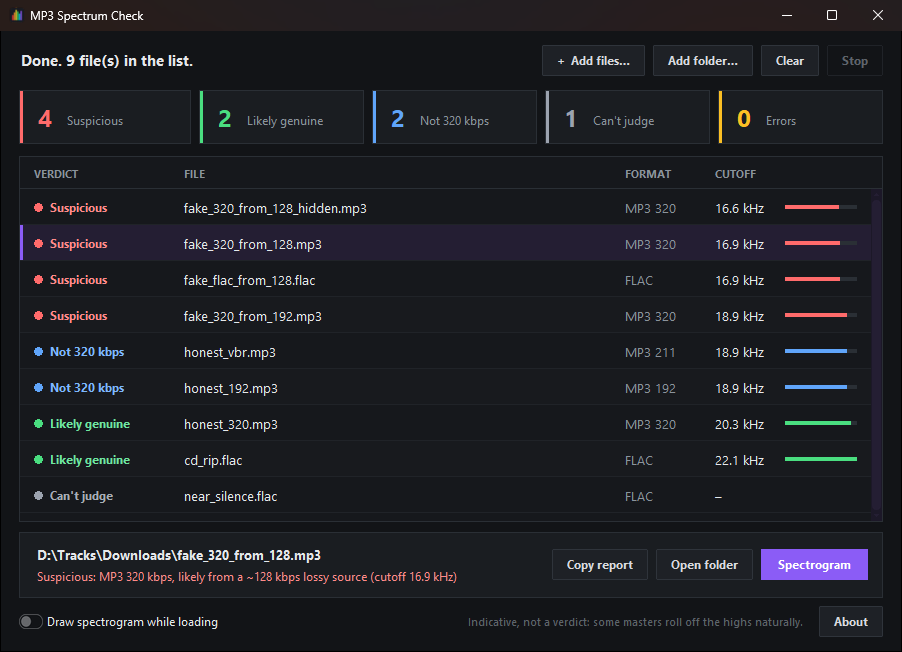
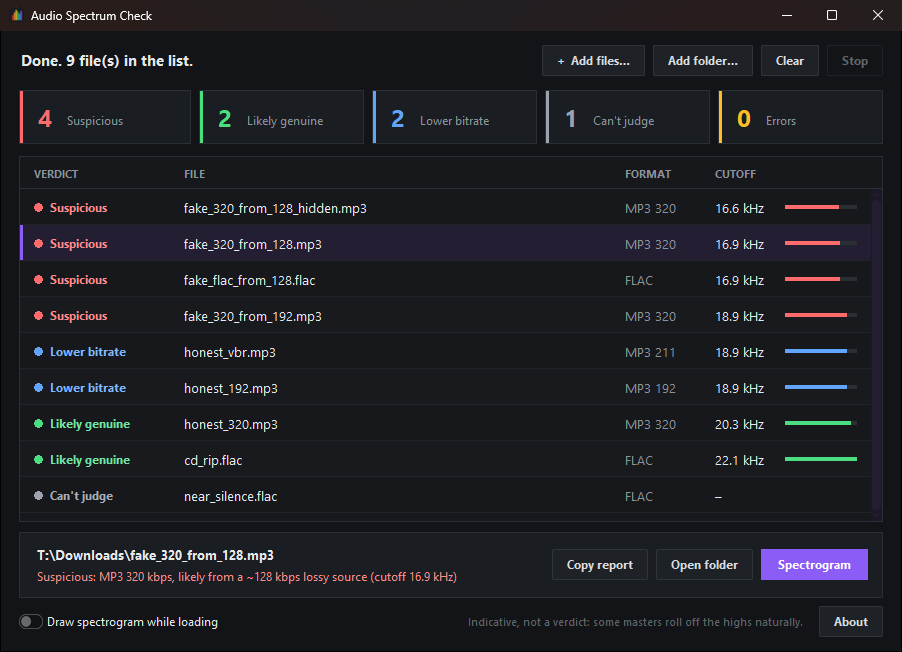
README: new name Audio Spectrum Check, "Lower bitrate", OGG
The program is now Audio Spectrum Check (it checks MP3, FLAC and OGG).
The verdict for genuine files below 320 kbps is "Lower bitrate", and OGG
is checked against its own encoder's cutoffs. New main window screenshot.

diff --git a/README.md b/README.md
@@ -1,4 +1,4 @@
-# MP3 Spectrum Check
+# Audio Spectrum Check
 
 **Is that 320 kbps MP3 really 320? Check any downloaded track in seconds, and take a
 closer look when something seems off.**
@@ -8,21 +8,21 @@ Music downloaded from the internet is not always what it claims to be. A file sa
 be a converted MP3. Every player shows the declared quality, on headphones it sounds
 fine, and you only notice on a big system, in the middle of a set, or never.
 
-MP3 Spectrum Check is a free Windows tool that reads the truth from the audio itself:
+Audio Spectrum Check is a free Windows tool that reads the truth from the audio itself:
 from its spectrum. It started as a quick fake detector and grew into a full quality
 inspection of a track.
 
 ## Check many files at once
 
 Select files or whole folders in Explorer, right-click and choose
-**MP3 Spectrum Check**, or drag them into the window. Every MP3, FLAC and OGG gets
+**Audio Spectrum Check**, or drag them into the window. Every MP3, FLAC and OGG gets
 a verdict:
 
 | Verdict | What it means |
 |---|---|
 | **Likely genuine** | The spectrum reaches as high as the format and bitrate promise. |
 | **Suspicious** | It ends far too low: most likely made from a lower-quality source. The tool also estimates which one, e.g. "likely from a ~128 kbps source". |
-| **Not 320 kbps** | An honest MP3 or OGG at a lower bitrate, e.g. 192 kbps. Not a fake, just not full quality. |
+| **Lower bitrate** | A genuine file at a bitrate below 320 kbps, e.g. MP3 192 or OGG 192. Not a fake. How it sounds depends on the codec: MP3 192 loses some detail, while OGG from 192 kbps keeps the whole frequency range and sounds close to MP3 320. |
 | **Can't judge** | Silence, or too quiet to measure. |
 | **Error** | The file could not be read. |
 
@@ -70,13 +70,15 @@ below the 19.5 kHz threshold.*
 A lossy encoder throws away everything above a certain frequency: about 17 kHz at
 128 kbps, about 20 kHz at 320 kbps. Converting the file to a higher bitrate or to
 FLAC cannot bring that back, so the spectrum still ends in a sharp wall far below
-where it should. MP3 Spectrum Check measures where the spectrum really ends,
+where it should. Audio Spectrum Check measures where the spectrum really ends,
 every 10 seconds through the whole file, and compares that with what the format
-and bitrate promise.
+and bitrate promise. MP3 and OGG are each checked against the cutoffs their own
+encoder leaves at every bitrate: OGG Vorbis keeps much more of the top than MP3,
+and from 192 kbps up it keeps all of it.
 
 ## Download and install
 
-1. Download `MP3SpectrumCheck-Setup.exe` from the **[latest release](../../releases/latest)**.
+1. Download `AudioSpectrumCheck-Setup.exe` from the **[latest release](../../releases/latest)**.
 2. Run it and allow administrator rights. Nothing else is needed: no Python,
    no ffmpeg, everything is inside.
 3. On Windows 11 the Explorer command is under *Show more options*
